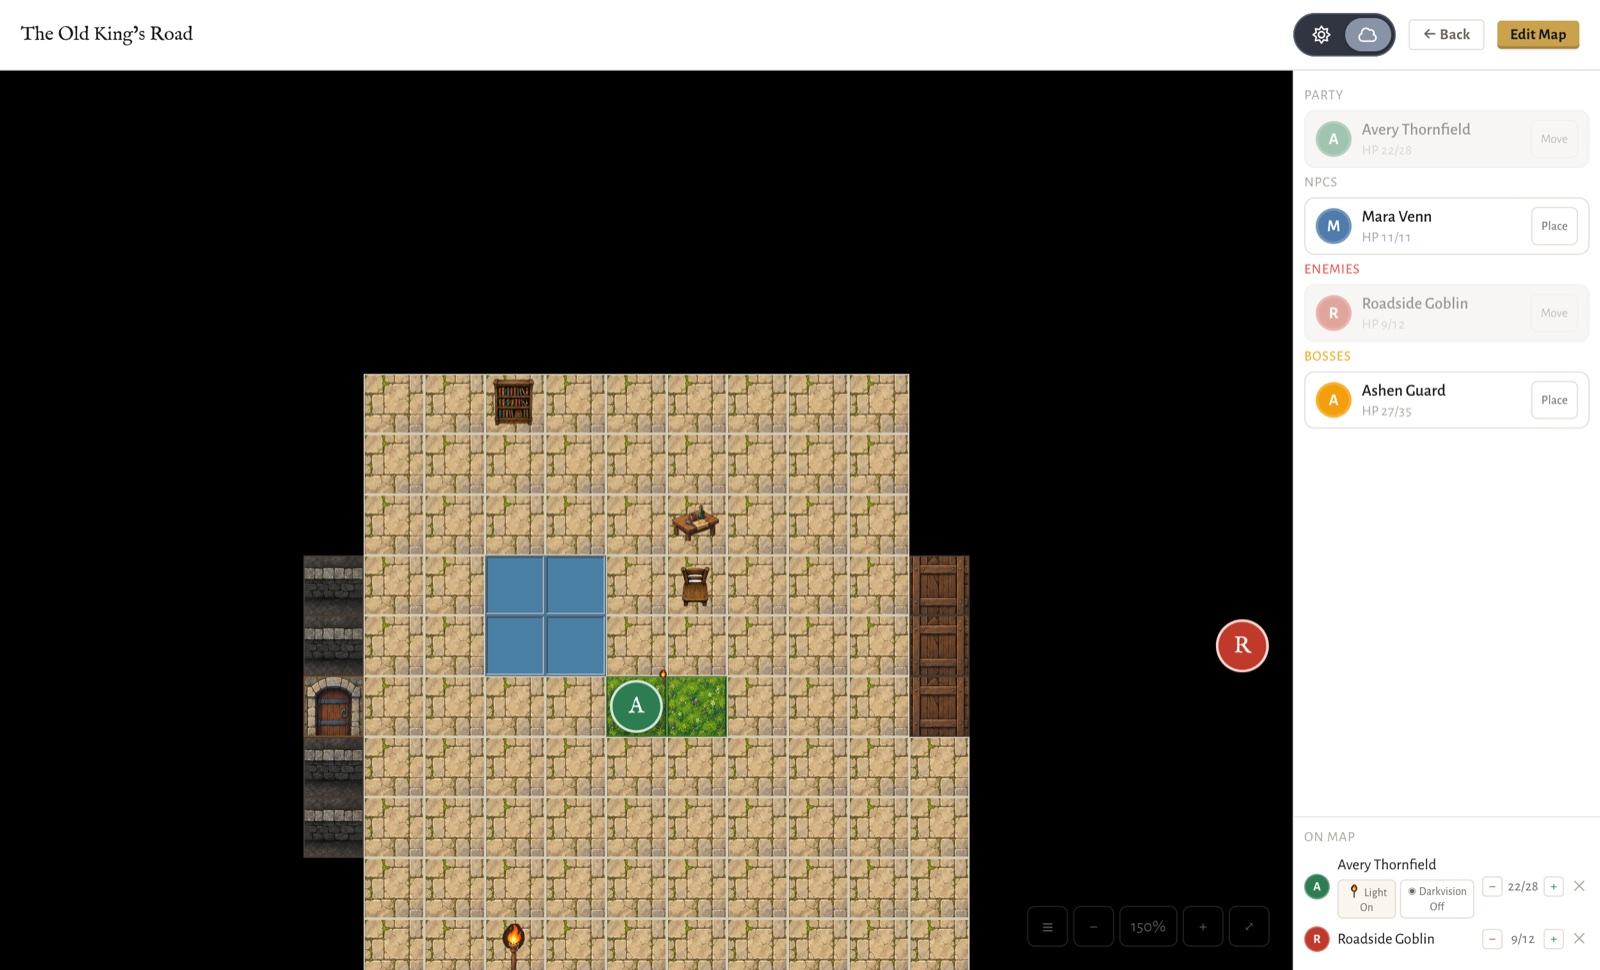
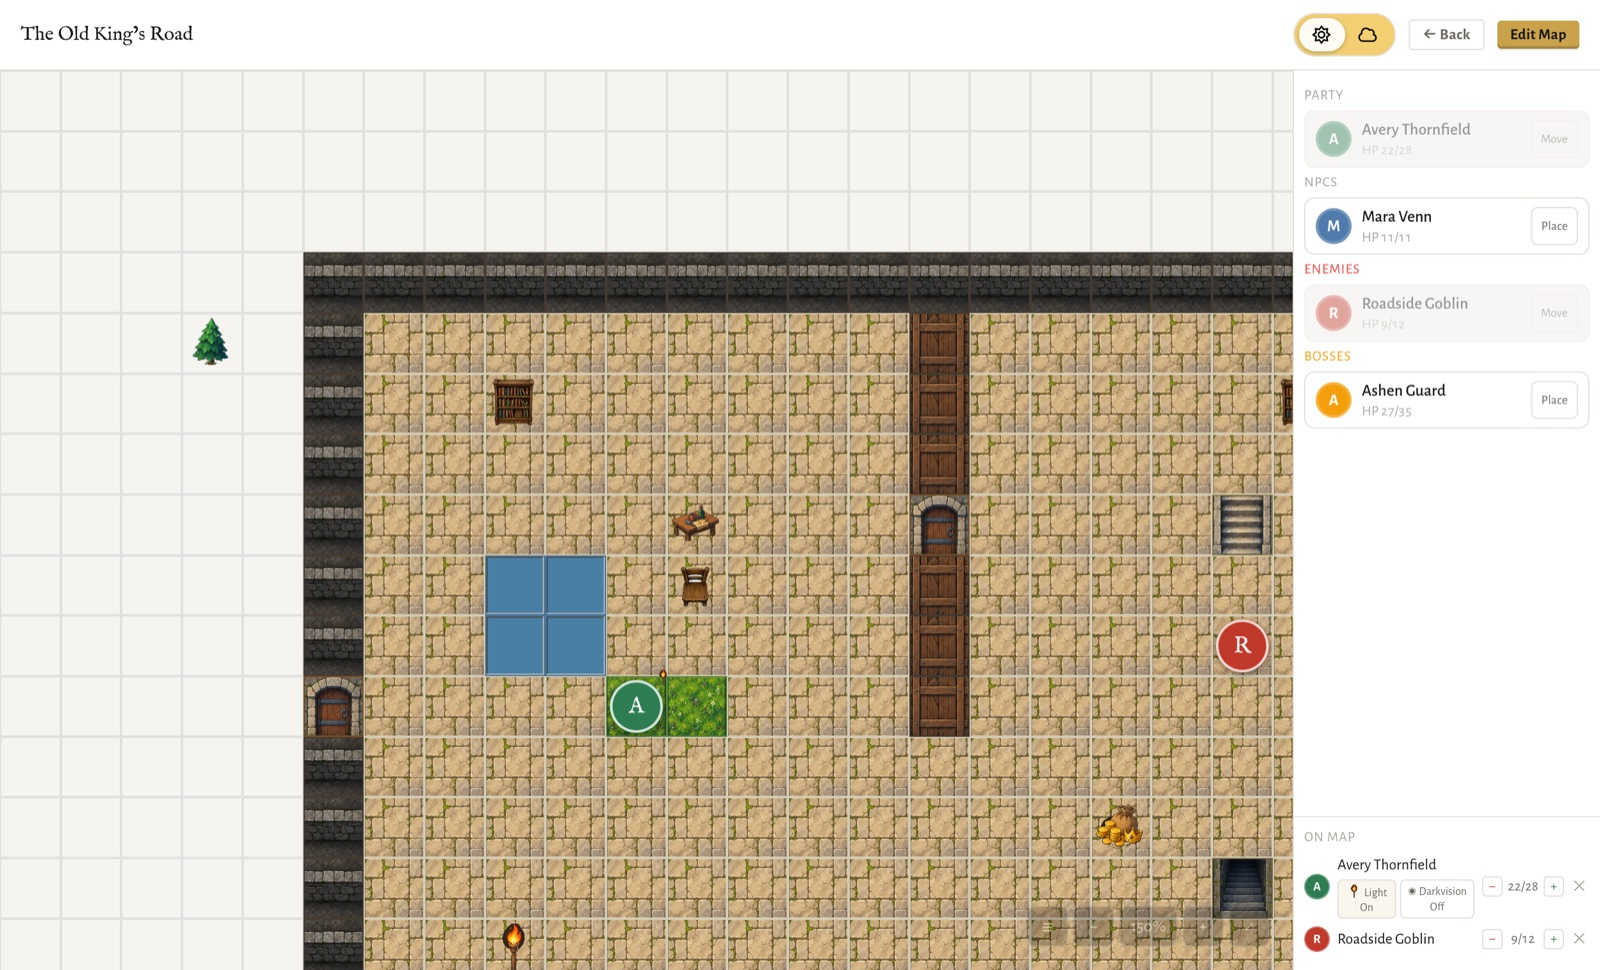
Slideshow: Battle Map screenshot is light (fog of war off) like the other slides

diff --git a/client/src/pages/PublicDemo.jsx b/client/src/pages/PublicDemo.jsx
@@ -33,7 +33,7 @@ const FEATURES = [
 
 // What the landing page says about each tool (real text for readers and for search); the demo links are real links.
 const ABOUT = [
-  { id: 'battle-map', image: '/showcase/battle-map.jpg', alt: 'A dungeon room on the Battle Map lit by fog of war, with the party and an enemy token and the token panel on the right', title: 'Battle Map', text: 'Build a map from themed tiles, drop in tokens for your party and monsters, and use fog of war to reveal the dungeon as your players explore.' },
+  { id: 'battle-map', image: '/showcase/battle-map.jpg', alt: 'A dungeon room on the Battle Map with the party and an enemy token, and the token panel on the right', title: 'Battle Map', text: 'Build a map from themed tiles, drop in tokens for your party and monsters, and use fog of war to reveal the dungeon as your players explore.' },
   { id: 'battle-tracker', image: '/showcase/battle-tracker.jpg', alt: 'The Battle Tracker with a boss, an enemy and a player card in initiative order, each with hit points and attack buttons', title: 'Battle Tracker', text: 'Roll initiative for everyone, work out attacks against armour class and keep hit points straight. Search the SRD monster list to add enemies in a click.' },
   { id: 'storyboard', image: '/showcase/storyboard.jpg', alt: 'A Storyboard page: an illustration of a party of adventurers beside the scene text', title: 'Storyboard', text: 'Lay out the scenes of your adventure as illustrated pages, then print them for the table.' },
   { id: 'journal', image: '/showcase/journal.jpg', alt: 'A Journal entry with the list of days on the left and the session notes on the right', title: 'Journal', text: 'Write session notes for each campaign and character, with the date written and last edit saved on every entry.' },
